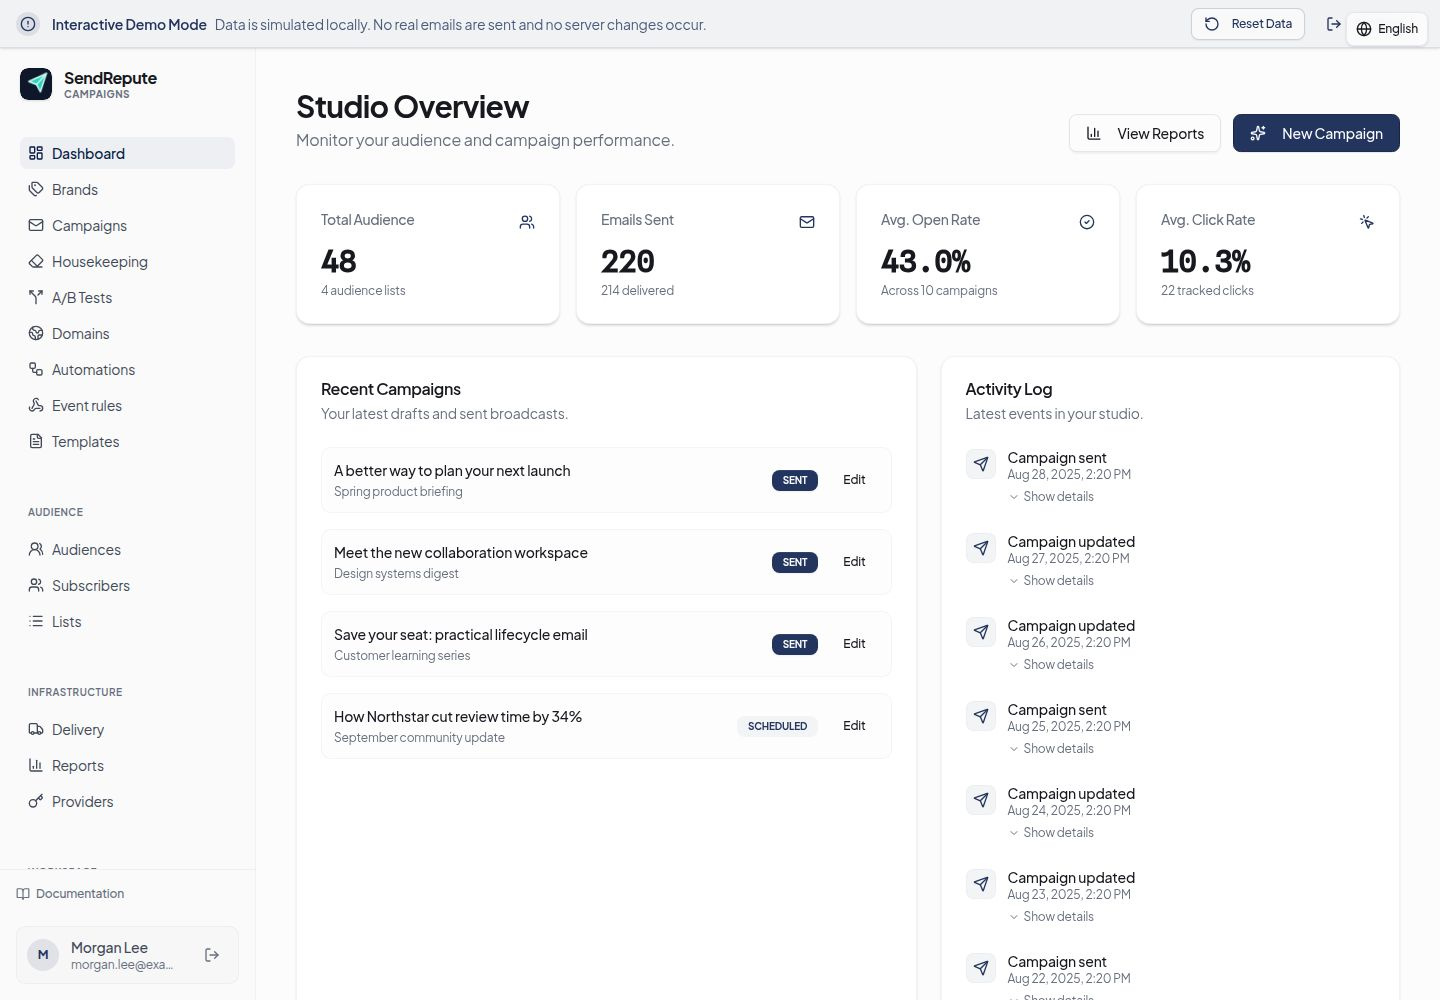
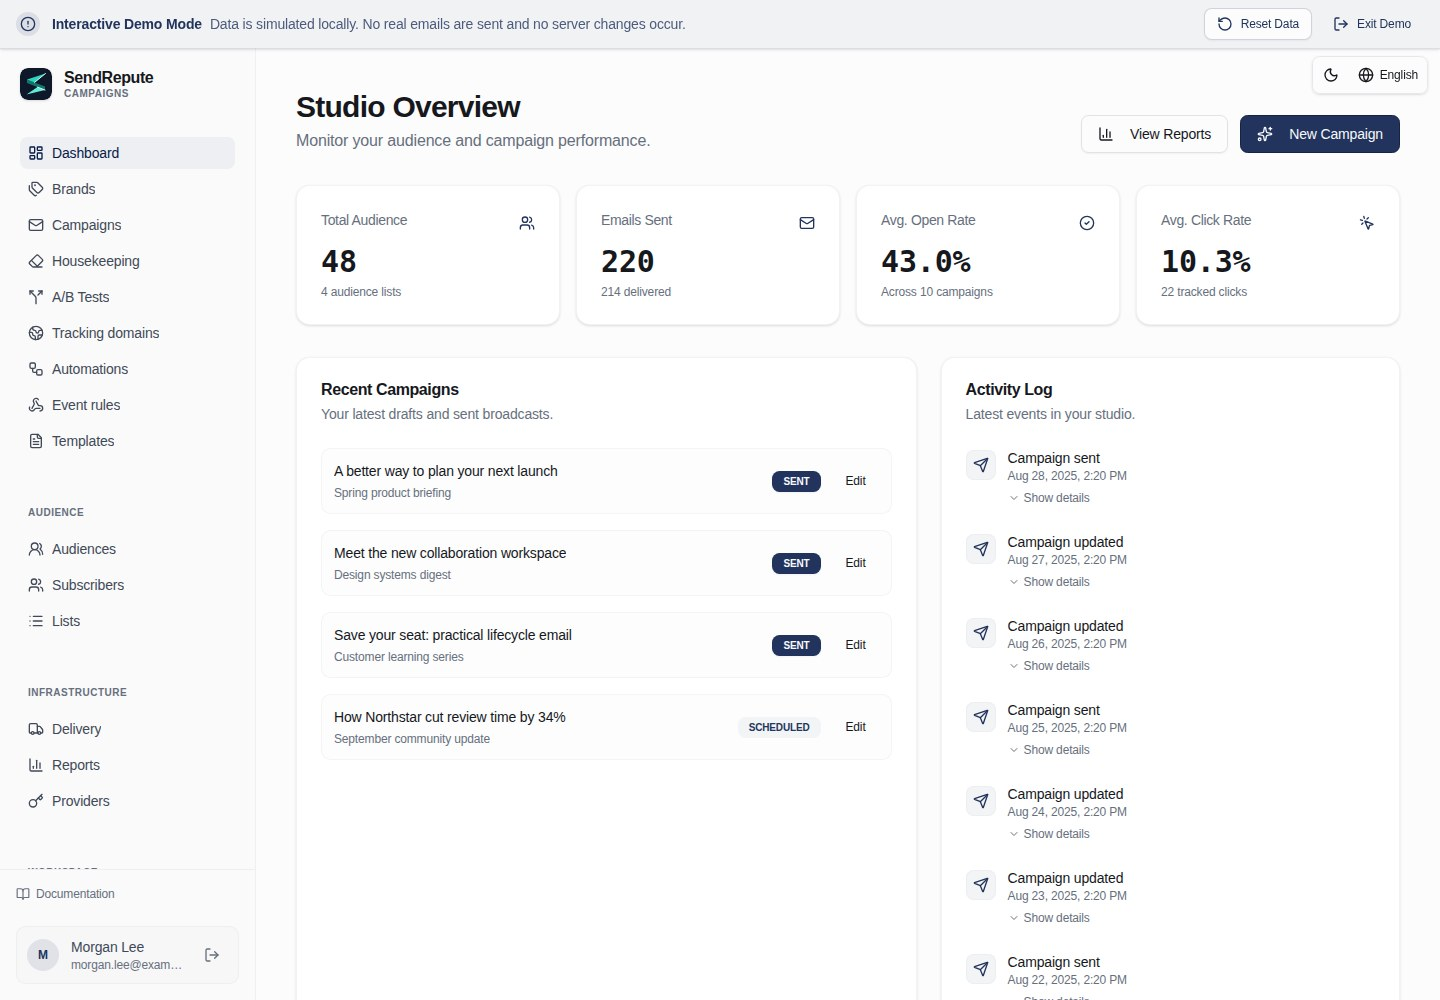
Show real localized interface screenshots in each language README

diff --git a/README.hi.md b/README.hi.md
@@ -4,7 +4,7 @@
 
 अपने स्वयं के सर्वर से सेल्फ-होस्टेड ऑडियंस, कैंपेन, टेम्प्लेट, ऑटोमेशन और डिलीवरी। यह रिपॉजिटरी **compiled runtime** वितरित करती है, न कि संपूर्ण सोर्स मोनोरीपो (source monorepo)।
 
-![SendRepute Campaigns डेस्कटॉप प्रीव्यू](docs/assets/campaigns-github-desktop.jpg)
+![SendRepute Campaigns डेस्कटॉप प्रीव्यू](docs/assets/campaigns-github-desktop-hi.jpg)
 
 [इंटरैक्टिव डेमो](https://www.sendrepute.com/campaigns/?demo=true) आज़माएं
 (इसमें कोई वास्तविक संदेश, होस्टेड बिल्डर या सशुल्क परिणाम शामिल नहीं हैं)।

diff --git a/README.uk.md b/README.uk.md
@@ -6,7 +6,7 @@
 вашого власного сервера. Цей репозиторій поширює **скомпільоване середовище виконання**, а не повний
 вихідний код монорепозиторію.
 
-![Попередній перегляд десктопної версії SendRepute Campaigns](docs/assets/campaigns-github-desktop.jpg)
+![Попередній перегляд десктопної версії SendRepute Campaigns](docs/assets/campaigns-github-desktop-uk.jpg)
 
 Спробуйте [інтерактивне демо](https://www.sendrepute.com/campaigns/?demo=true)
 (без реальних повідомлень, хмарних конструкторів чи платних результатів).

diff --git a/README.vi.md b/README.vi.md
@@ -6,7 +6,7 @@ Tự lưu trữ các tập khách hàng, chiến dịch, mẫu, tự động hó
 máy chủ của bạn. Kho lưu trữ này phân phối **bản runtime đã được biên dịch**, không phải toàn bộ
 mã nguồn monorepo.
 
-![Ảnh xem trước giao diện máy tính của SendRepute Campaigns](docs/assets/campaigns-github-desktop.jpg)
+![Ảnh xem trước giao diện máy tính của SendRepute Campaigns](docs/assets/campaigns-github-desktop-vi.jpg)
 
 Dùng thử [bản demo tương tác](https://www.sendrepute.com/campaigns/?demo=true)
 (không có tin nhắn thực tế, trình thiết kế được lưu trữ hay kết quả tính phí).

diff --git a/README.ru.md b/README.ru.md
@@ -6,7 +6,7 @@
 вашего сервера. В этом репозитории распространяется **скомпилированная среда выполнения**, а не полный
 исходный код монорепозитория.
 
-![SendRepute Campaigns desktop preview](docs/assets/campaigns-github-desktop.jpg)
+![SendRepute Campaigns desktop preview](docs/assets/campaigns-github-desktop-ru.jpg)
 
 Попробуйте [интерактивное демо](https://www.sendrepute.com/campaigns/?demo=true)
 (без реальных сообщений, облачных конструкторов и платных результатов).

diff --git a/README.ar.md b/README.ar.md
@@ -6,7 +6,7 @@
 خادمك الخاص. يوفر هذا المستودع **بيئة التشغيل المُجمَّعة**، وليس
 المستودع الموحد (monorepo) للشيفرة المصدرية الكاملة.
 
-![معاينة سطح المكتب لـ SendRepute Campaigns](docs/assets/campaigns-github-desktop.jpg)
+![معاينة سطح المكتب لـ SendRepute Campaigns](docs/assets/campaigns-github-desktop-ar.jpg)
 
 جرّب [العرض التوضيحي التفاعلي](https://www.sendrepute.com/campaigns/?demo=true)
 (بدون رسائل حقيقية أو أدوات بناء مستضافة أو نتائج مدفوعة).

diff --git a/README.es.md b/README.es.md
@@ -4,7 +4,7 @@
 
 Audiencias, campañas, plantillas, automatizaciones y envíos autoalojados desde su propio servidor. Este repositorio distribuye el **entorno de ejecución compilado**, no el monorepositorio completo del código fuente.
 
-![Vista previa de escritorio de SendRepute Campaigns](docs/assets/campaigns-github-desktop.jpg)
+![Vista previa de escritorio de SendRepute Campaigns](docs/assets/campaigns-github-desktop-es.jpg)
 
 Pruebe la [demostración interactiva](https://www.sendrepute.com/campaigns/?demo=true)
 (sin mensajes reales, constructores alojados ni resultados de pago).

diff --git a/README.de.md b/README.de.md
@@ -6,7 +6,7 @@ Selbst gehostete Zielgruppen, Kampagnen, Vorlagen, Automatisierungen und Zustell
 eigenen Server. Dieses Repository stellt die **kompilierte Laufzeitumgebung** bereit, nicht das vollständige
 Quellcode-Monorepo.
 
-![SendRepute Campaigns Desktop-Vorschau](docs/assets/campaigns-github-desktop.jpg)
+![SendRepute Campaigns Desktop-Vorschau](docs/assets/campaigns-github-desktop-de.jpg)
 
 Probieren Sie die [interaktive Demo](https://www.sendrepute.com/campaigns/?demo=true) aus
 (keine echten Nachrichten, keine gehosteten Builder oder kostenpflichtigen Ergebnisse).

diff --git a/README.tr.md b/README.tr.md
@@ -4,7 +4,7 @@
 
 Kendi sunucunuzda barındırabileceğiniz hedef kitleler, kampanyalar, şablonlar, otomasyonlar ve teslimat. Bu depo tam kaynak kodlu monorepo'yu değil, **derlenmiş çalışma zamanını** dağıtır.
 
-![SendRepute Campaigns masaüstü önizlemesi](docs/assets/campaigns-github-desktop.jpg)
+![SendRepute Campaigns masaüstü önizlemesi](docs/assets/campaigns-github-desktop-tr.jpg)
 
 [Etkileşimli demoyu](https://www.sendrepute.com/campaigns/?demo=true) deneyin
 (gerçek mesajlar, barındırılan oluşturucular veya ücretli sonuçlar içermez).

diff --git a/README.fr.md b/README.fr.md
@@ -6,7 +6,7 @@ Audiences, campagnes, modèles, automatisations et envois auto-hébergés depuis
 propre serveur. Ce dépôt distribue l'**environnement d'exécution compilé**, et non le
 monorepo complet du code source.
 
-![Aperçu de bureau de SendRepute Campaigns](docs/assets/campaigns-github-desktop.jpg)
+![Aperçu de bureau de SendRepute Campaigns](docs/assets/campaigns-github-desktop-fr.jpg)
 
 Essayez la [démo interactive](https://www.sendrepute.com/campaigns/?demo=true)
 (sans messages réels, constructeurs hébergés ni résultats payants).

diff --git a/README.pt.md b/README.pt.md
@@ -6,7 +6,7 @@ Públicos, campanhas, modelos, automações e entrega auto-hospedados a partir d
 servidor. Este repositório distribui o **runtime compilado**, não o monorepo completo
 do código-fonte.
 
-![Prévia no desktop do SendRepute Campaigns](docs/assets/campaigns-github-desktop.jpg)
+![Prévia no desktop do SendRepute Campaigns](docs/assets/campaigns-github-desktop-pt.jpg)
 
 Experimente a [demonstração interativa](https://www.sendrepute.com/campaigns/?demo=true)
 (sem mensagens reais, construtores hospedados ou resultados pagos).

diff --git a/README.it.md b/README.it.md
@@ -4,7 +4,7 @@
 
 Pubblico, campagne, template, automazioni e consegna in self-hosting direttamente dal tuo server. Questo repository distribuisce il **runtime compilato**, non l'intero monorepo dei sorgenti.
 
-![Anteprima desktop di SendRepute Campaigns](docs/assets/campaigns-github-desktop.jpg)
+![Anteprima desktop di SendRepute Campaigns](docs/assets/campaigns-github-desktop-it.jpg)
 
 Prova la [demo interattiva](https://www.sendrepute.com/campaigns/?demo=true)
 (nessun messaggio reale, builder in hosting o risultati a pagamento).

diff --git a/README.zh.md b/README.zh.md
@@ -4,7 +4,7 @@
 
 在您自己的服务器上自托管受众、营销活动、模板、自动化以及邮件投递。此仓库分发的是**编译后的运行时**，而不是完整的源代码单体仓库（monorepo）。
 
-![SendRepute Campaigns 桌面预览](docs/assets/campaigns-github-desktop.jpg)
+![SendRepute Campaigns 桌面预览](docs/assets/campaigns-github-desktop-zh.jpg)
 
 欢迎体验[交互式演示](https://www.sendrepute.com/campaigns/?demo=true)
 （不包含真实消息、托管式构建器或付费结果）。
